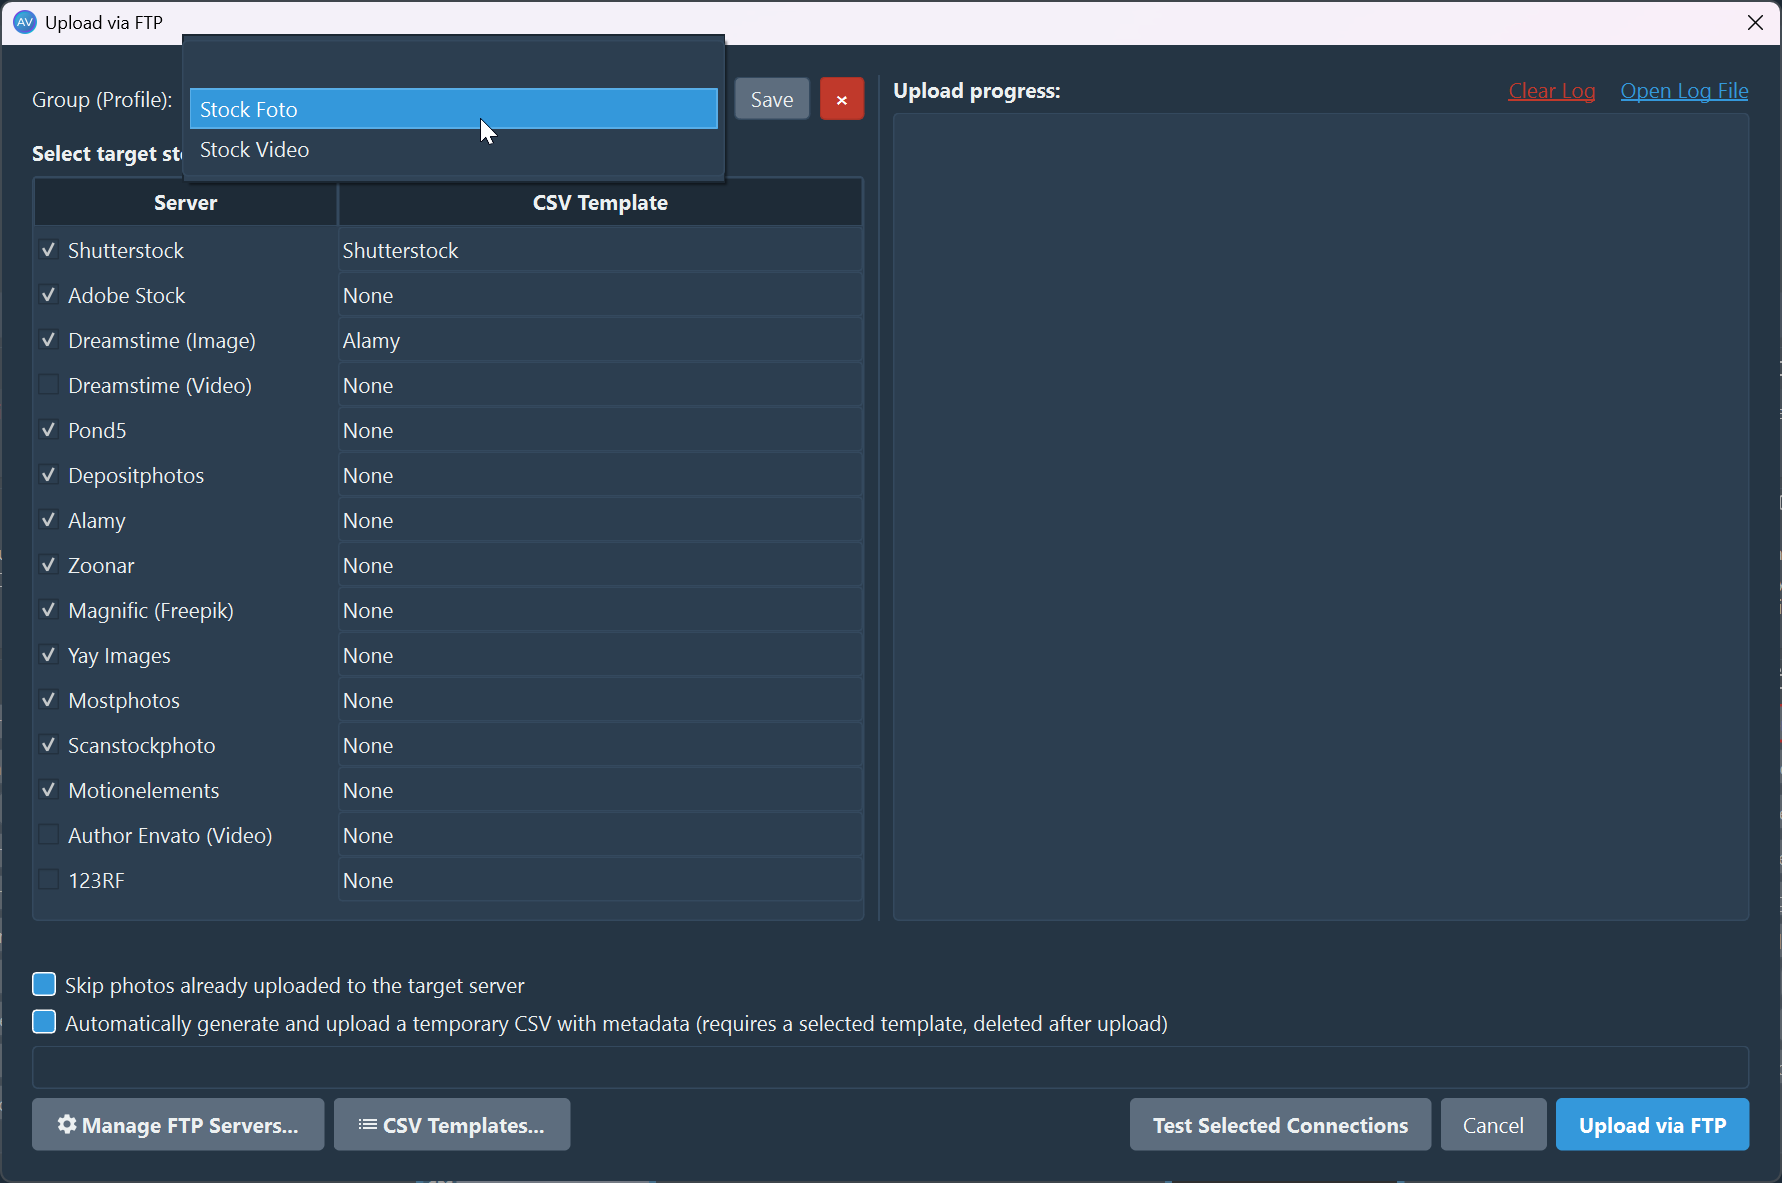
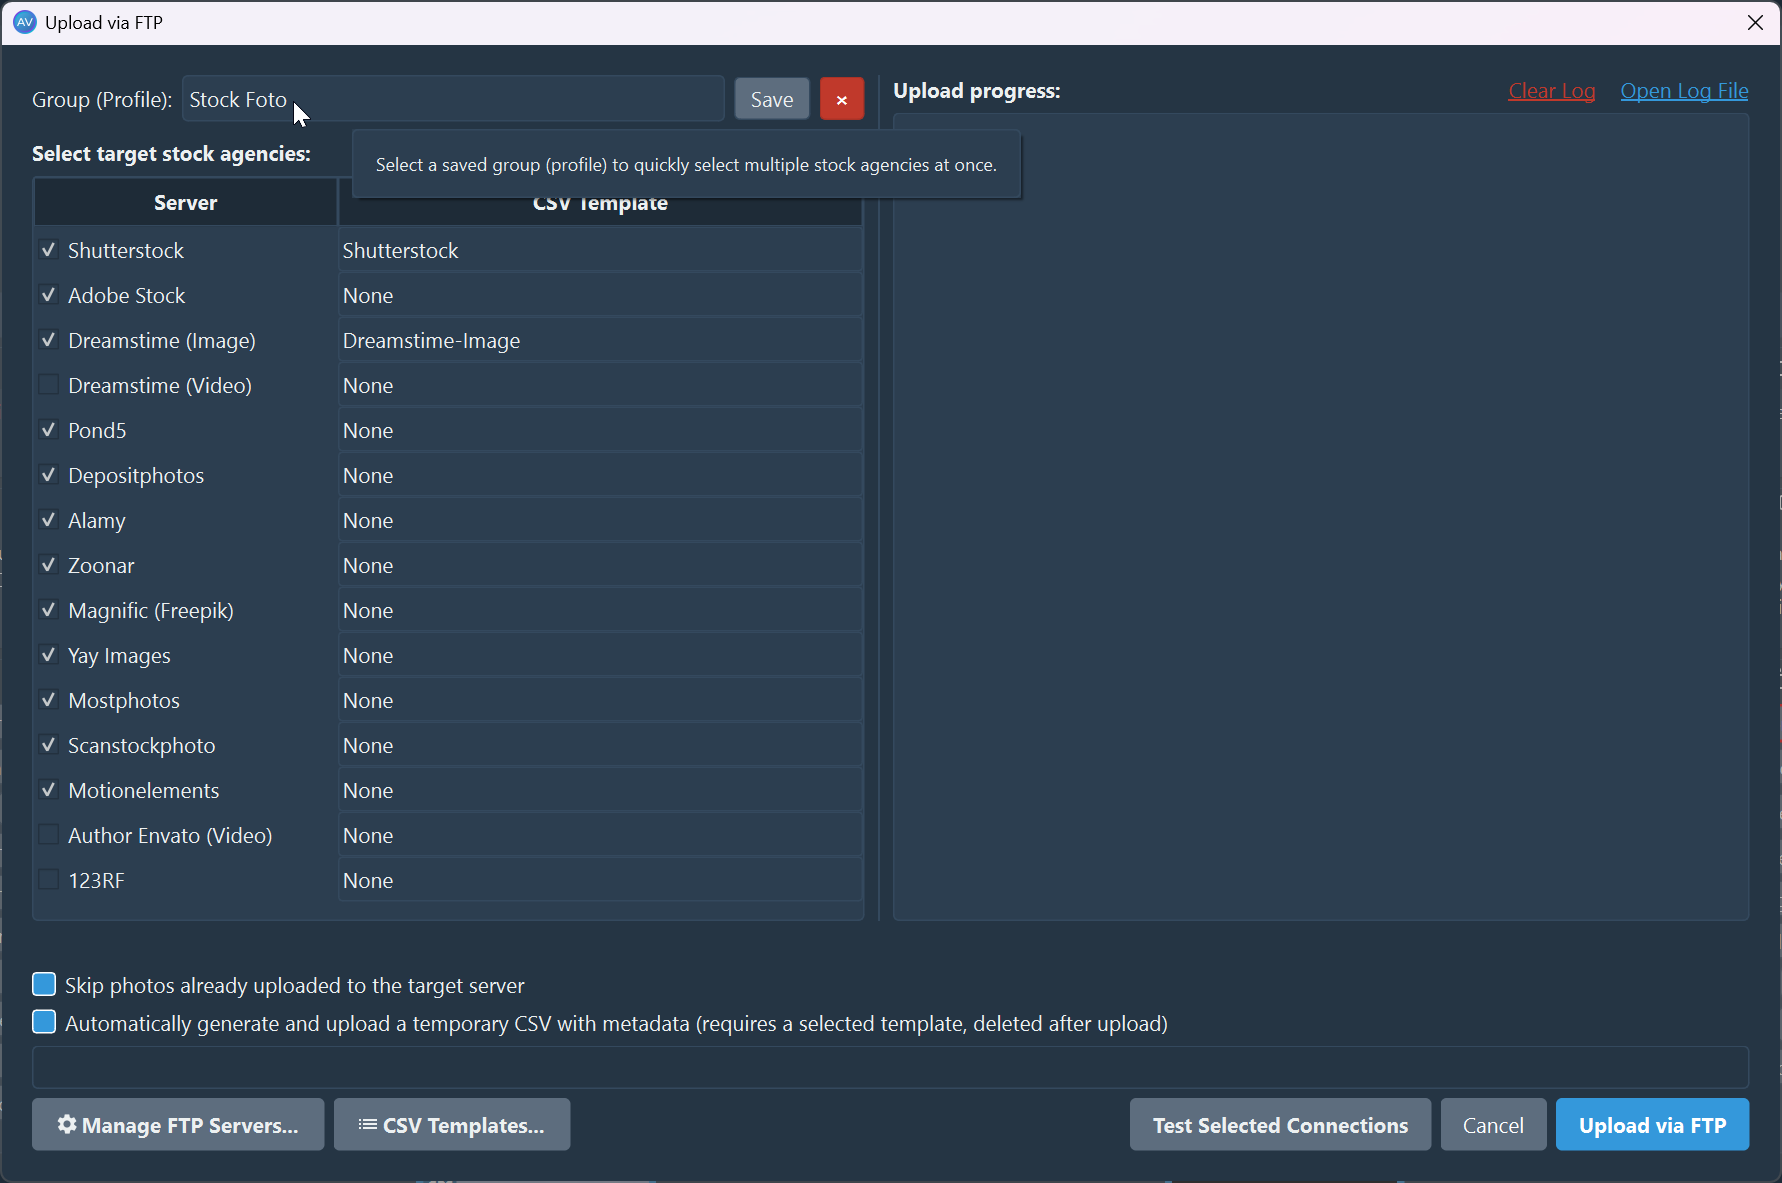
update

Changed region(s): [[0.0926, 0.0304, 0.5556, 0.1826], [0.1852, 0.2739, 0.2778, 0.3043]]

diff --git a/docs/global-stock-distribution-ftp.md b/docs/global-stock-distribution-ftp.md
@@ -190,18 +190,15 @@ Speed up your distribution workflow by grouping multiple stock agencies together
 <a href="https://raw.githubusercontent.com/Artushfoto/ArtushVision-AI/main/docs/images/ftp-editor.png" target="_blank" class="screenshot-link" style="max-width: 600px; margin: 20px 0;">
   <img src="https://raw.githubusercontent.com/Artushfoto/ArtushVision-AI/main/docs/images/ftp-editor.png" alt="ArtushVision AI - FTP Editor" style="width: 400px;" class="screenshot-img">
 </a>
-</div>
 <div style="height: 15px;"></div>
 
 * **Custom Server Groups:** Create user-defined profiles (e.g., "Video Agencies" or "Editorial Only") to save your current selection of target FTP servers.
 * **One-Click Distribution:** Select your pre-saved profile from the dropdown menu to instantly target all servers belonging to that specific group.
 * **Independent Configuration:** Profile settings are safely stored independently of the main application, ensuring stability and allowing for easy backups.
 
-**Agency Editor**
 <a href="https://raw.githubusercontent.com/Artushfoto/ArtushVision-AI/main/docs/images/ftp-group-profiles.png" target="_blank" class="screenshot-link" style="margin: 0; max-width: 800px; flex: 1 1 auto;">
     <img src="https://raw.githubusercontent.com/Artushfoto/ArtushVision-AI/main/docs/images/ftp-group-profiles.png" alt="ArtushVision AI - FTP Custom Server Groups" style="width: 100%; max-width: 800px;" class="screenshot-img">
   </a>
-</div>
 <div style="height: 15px;"></div>
 
 